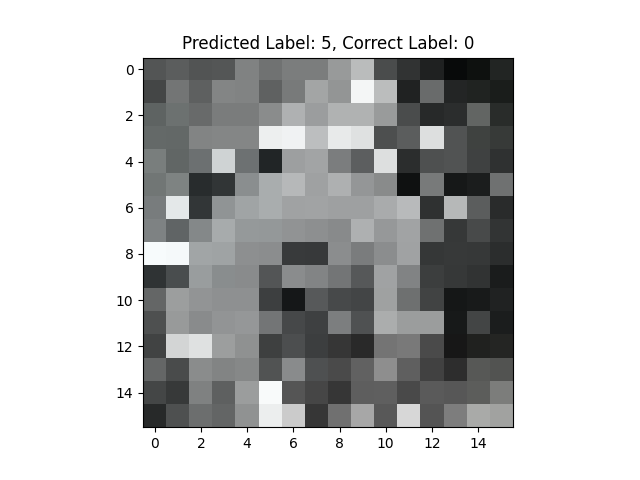
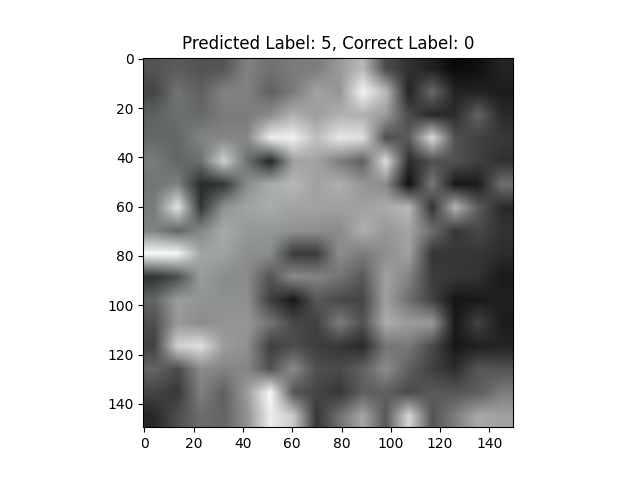
bruh

diff --git a/A2/Q2/b_multi.py b/A2/Q2/b_multi.py
@@ -68,7 +68,8 @@ for i, y in enumerate(y_pred):
   
 for i in range(12):
   index, label = mislabeled[i]
-  plt.imshow(np.reshape(x_test[index], (16, 16, 3)))
+  upscaled_image = cv2.resize(np.reshape(x_test[index], (16, 16, 3)), (150, 150), interpolation=cv2.INTER_LINEAR)
+  plt.imshow(upscaled_image)
   plt.title(f'Predicted Label: {label}, Correct Label: {y_test[index]}')
   plt.savefig(f'b_{i}.png')
   plt.show()
